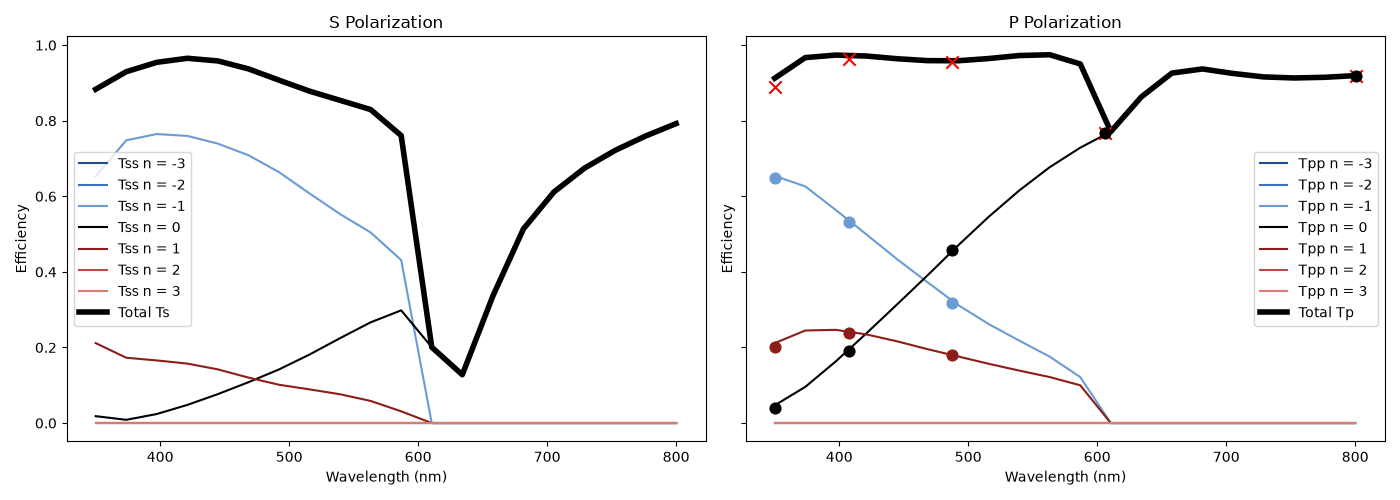
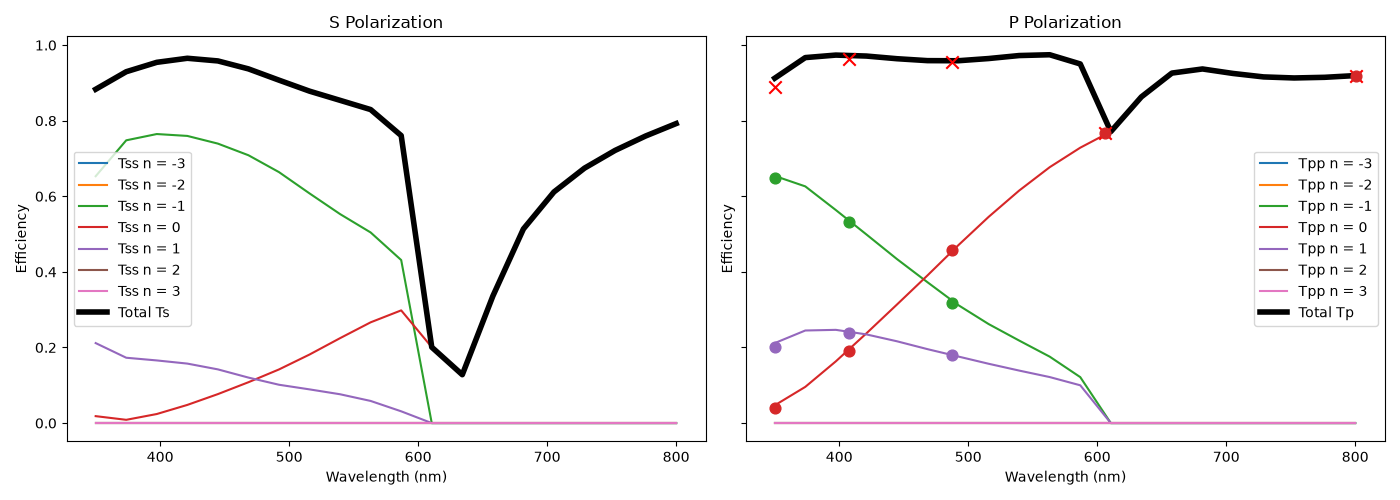
docs: example - clean up code, move some comments to markdown format

diff --git a/examples/Single_Solver_Workflows/diffraction_grating_rcwa/diffraction_grating_rcwa.py b/examples/Single_Solver_Workflows/diffraction_grating_rcwa/diffraction_grating_rcwa.py
@@ -68,13 +68,13 @@ z_buffer = wl_min  # A buffer region above and below the structure to ensure the
 sim_z_max = depth + z_buffer  # Good practice to make sure the simulation region is at least one wavelength larger than the structure
 sim_z_min = -z_buffer
 
-
-# +
-# Initialize session and build simulation objects. Set hide = True to hide the Lumerical GUI.
+# -
+# Initialize session and build simulation objects. RCWA related documentations can be found [here](https://optics.ansys.com/hc/en-us/articles/12959229278611-RCWA-Solver-Simulation-Object)
 # This block will build a 1D trapezoidal blazed grating structure on a substrate.
 # The simulation file will be saved to the current working directory with the name specified in the "filename" variable above.
 
 
+# +
 def build_1d_grating(
     fdtd,
     filename,
@@ -161,7 +161,6 @@ def build_rcwa(fdtd, filename, x_min: float, x_max: float, y_min: float, y_max: 
     )
 
     # Set the RCWA interface positions. The interface positions are set from the minimum and maximum z positions of the grating object.
-    # For documentation, see https://optics.ansys.com/hc/en-us/articles/12959229278611-RCWA-Solver-Simulation-Object
     fdtd.setnamed("RCWA", "interface position", "reference")
     # Here, set the number of interfaces in each layer; here we set 10 interfaces for the slanted grating
     # Only 1 interface is needed for the base since it is uniform in z
@@ -184,12 +183,11 @@ print("RCWA simulation geometry saved to file: " + filename)
 
 # ## Part 2: RCWA Simulation
 #
+# Configure wavelength/angle excitation settings, and run the RCWA simulation. For documentation, see [here](https://optics.ansys.com/hc/en-us/articles/12959229278611-RCWA-Solver-Simulation-Object)
+#
+# `Grating_characterization` returns the complex S-parameters for each grating order split into S and P polarizations.
 
 # +
-# Configure wavelength/angle excitation settings, and run the RCWA simulation.
-# The grating_characterization result is returned. For documentation, see https://optics.ansys.com/hc/en-us/articles/12959229278611-RCWA-Solver-Simulation-Object
-# Grating_characterization returns the complex S-parameters for each grating order split into S and P polarizations.
-
 # Set the number of wavelengths and angles to simulate
 # Setting to 1 will use the minimum value set above
 num_wavelengths = 20
@@ -281,12 +279,23 @@ print("phi:", np.unique(gc["phi"]), "deg")
 
 
 # ## Part 3: Plot RCWA results
-
-# +
 # Now plot useful results.
 # The following function helps to extract useful results from the grating_characterization object for plotting.
+#
+# For normal incidence, the grating equation is: $\frac{m\lambda}{D}=\sin{\theta}$,
+# where $m$ is the diffraction order, $\lambda$ is the wavelength, and $D$ is the grating period `period_x`.
+# The $m$-th order propagates at an angle $\theta = \arcsin\left(\frac{m \lambda}{D}\right)$.
+#
+# In this example, the wavelength range is 350–800 nm and the grating period is 600 nm. Thus, only the zeroth order
+# propagates for $\lambda > 600$ nm. At 600 nm, the $\pm 1$ orders are at the grazing-angle threshold and can propagate.
+#
+# Therefore we can only observe the zero-th order for wavelengths above 600 nm, zero-th and first order for
+# wavelength below 600 nm.
+#
+# Similarly, the second order can propagate only below wavelength shorter than 300 nm, which is not available in this case.
 
 
+# +
 def extract_values_gc(
     gc, order_n: int = 0, order_m: int = 0, angle_theta: float = 0.0, angle_phi: float = 0.0
 ) -> Tuple[np.ndarray, np.ndarray, np.ndarray, np.ndarray, np.ndarray]:
@@ -376,40 +385,12 @@ order_ns = range(-3, 4)  # Specify the range of diffraction orders to plot, e.g.
 # Set up plotting
 fig, axes = plt.subplots(1, 2, figsize=(14, 5), sharex=True, sharey=True)
 
-
-def order_style(order_n: int):
-    """
-    Help plot diffraction orders with different colors.
-
-    Parameters
-    ----------
-    order_n: Diffraction order index to get the plotting color/linestyle for. Order 0 is plotted in black;
-        negative orders (-3 to -1) use shades of blue, and positive orders (1 to 3) use shades of red
-
-    Returns
-    -------
-    A tuple of (color, linestyle) to use when plotting the given diffraction order
-    """
-    if order_n == 0:
-        return "black", "-"
-    color_map = {
-        -3: "#1f4e8c",
-        -2: "#3d73b9",
-        -1: "#6a9bd5",
-        1: "#8c1d18",
-        2: "#bf4a43",
-        3: "#d97a73",
-    }
-    return color_map[order_n], "-"
-
-
 for n in order_ns:
     Tss, Rss, Tpp, Rpp, wavelengths = extract_values_gc(gc, order_n=n)
-    color, style = order_style(n)
-    axes[0].plot(wavelengths * 1e9, Tss, label=f"Tss n = {n}", color=color, linestyle=style)
-    # axes[0].plot(wavelengths*1e9, Rss, label=f"Rss n = {n}", color=color, linestyle="--")
-    axes[1].plot(wavelengths * 1e9, Tpp, label=f"Tpp n = {n}", color=color, linestyle=style)
-    # axes[1].plot(wavelengths*1e9, Rpp, label=f"Rpp n = {n}", color=color, linestyle="--")
+    axes[0].plot(wavelengths * 1e9, Tss, label=f"Tss n = {n}")
+    # axes[0].plot(wavelengths*1e9, Rss, label=f"Rss n = {n}")
+    axes[1].plot(wavelengths * 1e9, Tpp, label=f"Tpp n = {n}")
+    # axes[1].plot(wavelengths*1e9, Rpp, label=f"Rpp n = {n}")
 
 # Retrieve overall T/R results at normal incidence
 total_Ts, total_Rs, total_Tp, total_Rp, wavelengths = extract_values_total_energy(total_energy)  # Total transmission for each polarization
@@ -435,8 +416,12 @@ plt.pause(10)
 # <img src="images/diffraction_efficiency.png" width="600">
 
 # ## Part 4: Verify the results with FDTD
+#
 # The FDTD simulation requires a source (plane wave) to excite the field and a monitor to record results.
-# We use periodic boundary conditions along both x and y directions to simulate an infinite grating.
+# The FDTD simulation area is set to be identical to the previous RCWA.
+#
+# Please note that here we use Bloch boundary conditions for possibly tilted incident waves, with "set based on source angle" enabled.
+# If the incident wave is normal to the surface, the Bloch boundary conditions reduce to Periodic boundary conditions.
 
 
 # +
@@ -458,9 +443,6 @@ def set_fdtd_simulation(
     fdtd.switchtolayout()
 
     # Set up FDTD simulation object
-    # The FDTD simulation area is set to be identical to the previous RCWA
-    # Please note that here we use Bloch boundary conditions for possibly tilted incident waves, with "set based on source angle" enabled.
-    # If the incident wave is normal to the surface, the Bloch boundary conditions reduce to Periodic boundary conditions.
     fdtd.addfdtd(
         {
             "x min": x_min,
@@ -573,23 +555,13 @@ axis.scatter(
     zorder=10,
 )
 
-fig.show()  # plot the figure
+fig  # plot the figure in notebook env
 plt.pause(10)
 
 # -
 # <img src="images/diffraction_efficiency_FDTD_total.png" width="600">
 #
-# ### Use the `grating` command to extract diffraction efficiencies by order
-#
-# For normal incidence, the grating equation is: $\frac{m\lambda}{D}=\sin{\theta}$,
-# where $m$ is the diffraction order, $\lambda$ is the wavelength, and $D$ is the grating period `period_x`.
-# The $m$-th order propagates at an angle $\theta = \arcsin\left(\frac{m \lambda}{D}\right)$.
-#
-# In this example, the wavelength range is 350–800 nm and the grating period is 600 nm.
-# Thus, only the zeroth order propagates for $\lambda > 600$ nm. At 600 nm, the $\pm 1$ orders are at the
-# grazing-angle threshold; below 600 nm, they can propagate. Similarly, the $\pm 2$ orders are at the
-# grazing-angle threshold at 300 nm and can propagate below 300 nm.
-#
+# To transfer the simulation results to grating orders, we use `grating` command to extract diffraction efficiencies by order.
 # Because the grating varies along the x-axis and is uniform along the y-axis, we extract orders along x and set `y_order = 0`.
 
 
@@ -605,6 +577,7 @@ def available_orders(wavelength: float, grating_period: float) -> list:
 f_list = fdtd.getdata("monitor", "f").flatten()
 lambda_list = 3e8 / f_list
 
+order_colors = {n: line.get_color() for n, line in zip(order_ns, axis.get_lines())}
 # Different wavelength corresponds to different output shapes, so we extract the output for each frequency
 for idx, f in enumerate(f_list):
     # Extract the grating output for the current frequency index
@@ -629,13 +602,13 @@ for idx, f in enumerate(f_list):
         axis.scatter(
             lambda_list[idx] * m_to_nm,  # Transfer to nm
             transmission * tot_transmission_list[idx],  # Adjusted by total energy transmission
-            color=order_style(order)[0],
+            color=order_colors[order],
             s=60,
             marker="o",
             zorder=10,
         )
 
-fig.show()  # plot the figure
+fig  # plot the figure in notebook env
 plt.pause(10)
 
 # -
